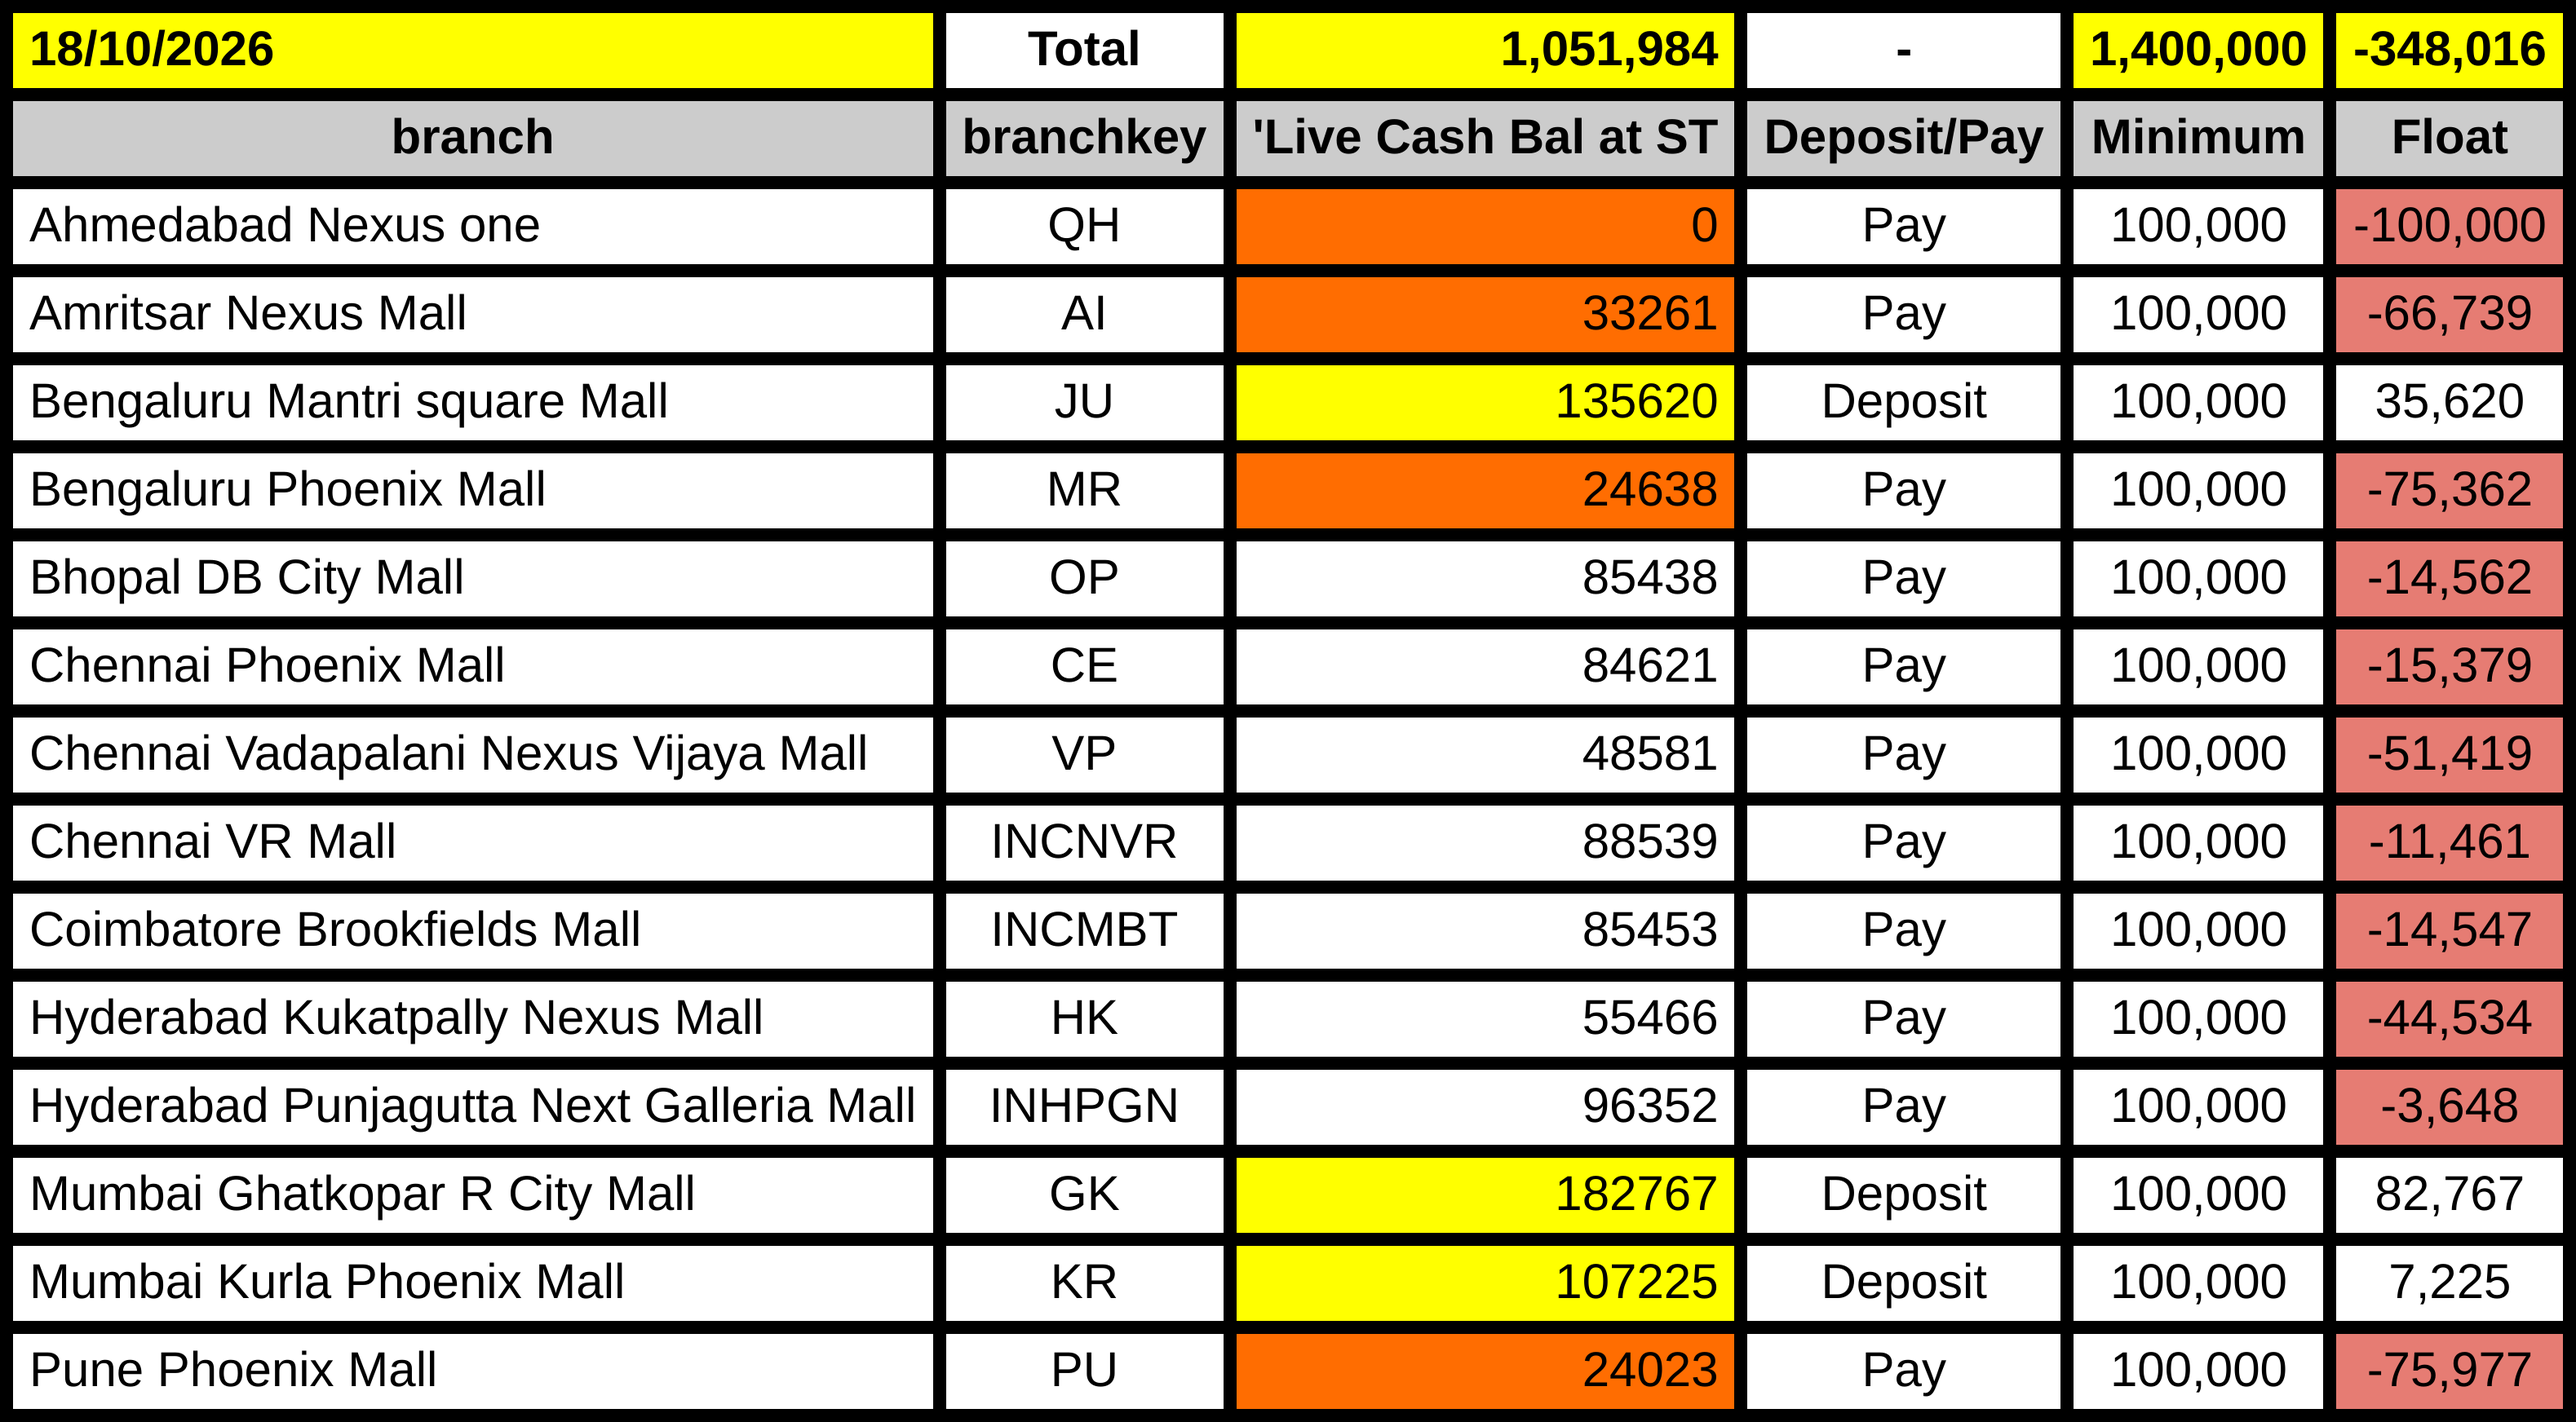
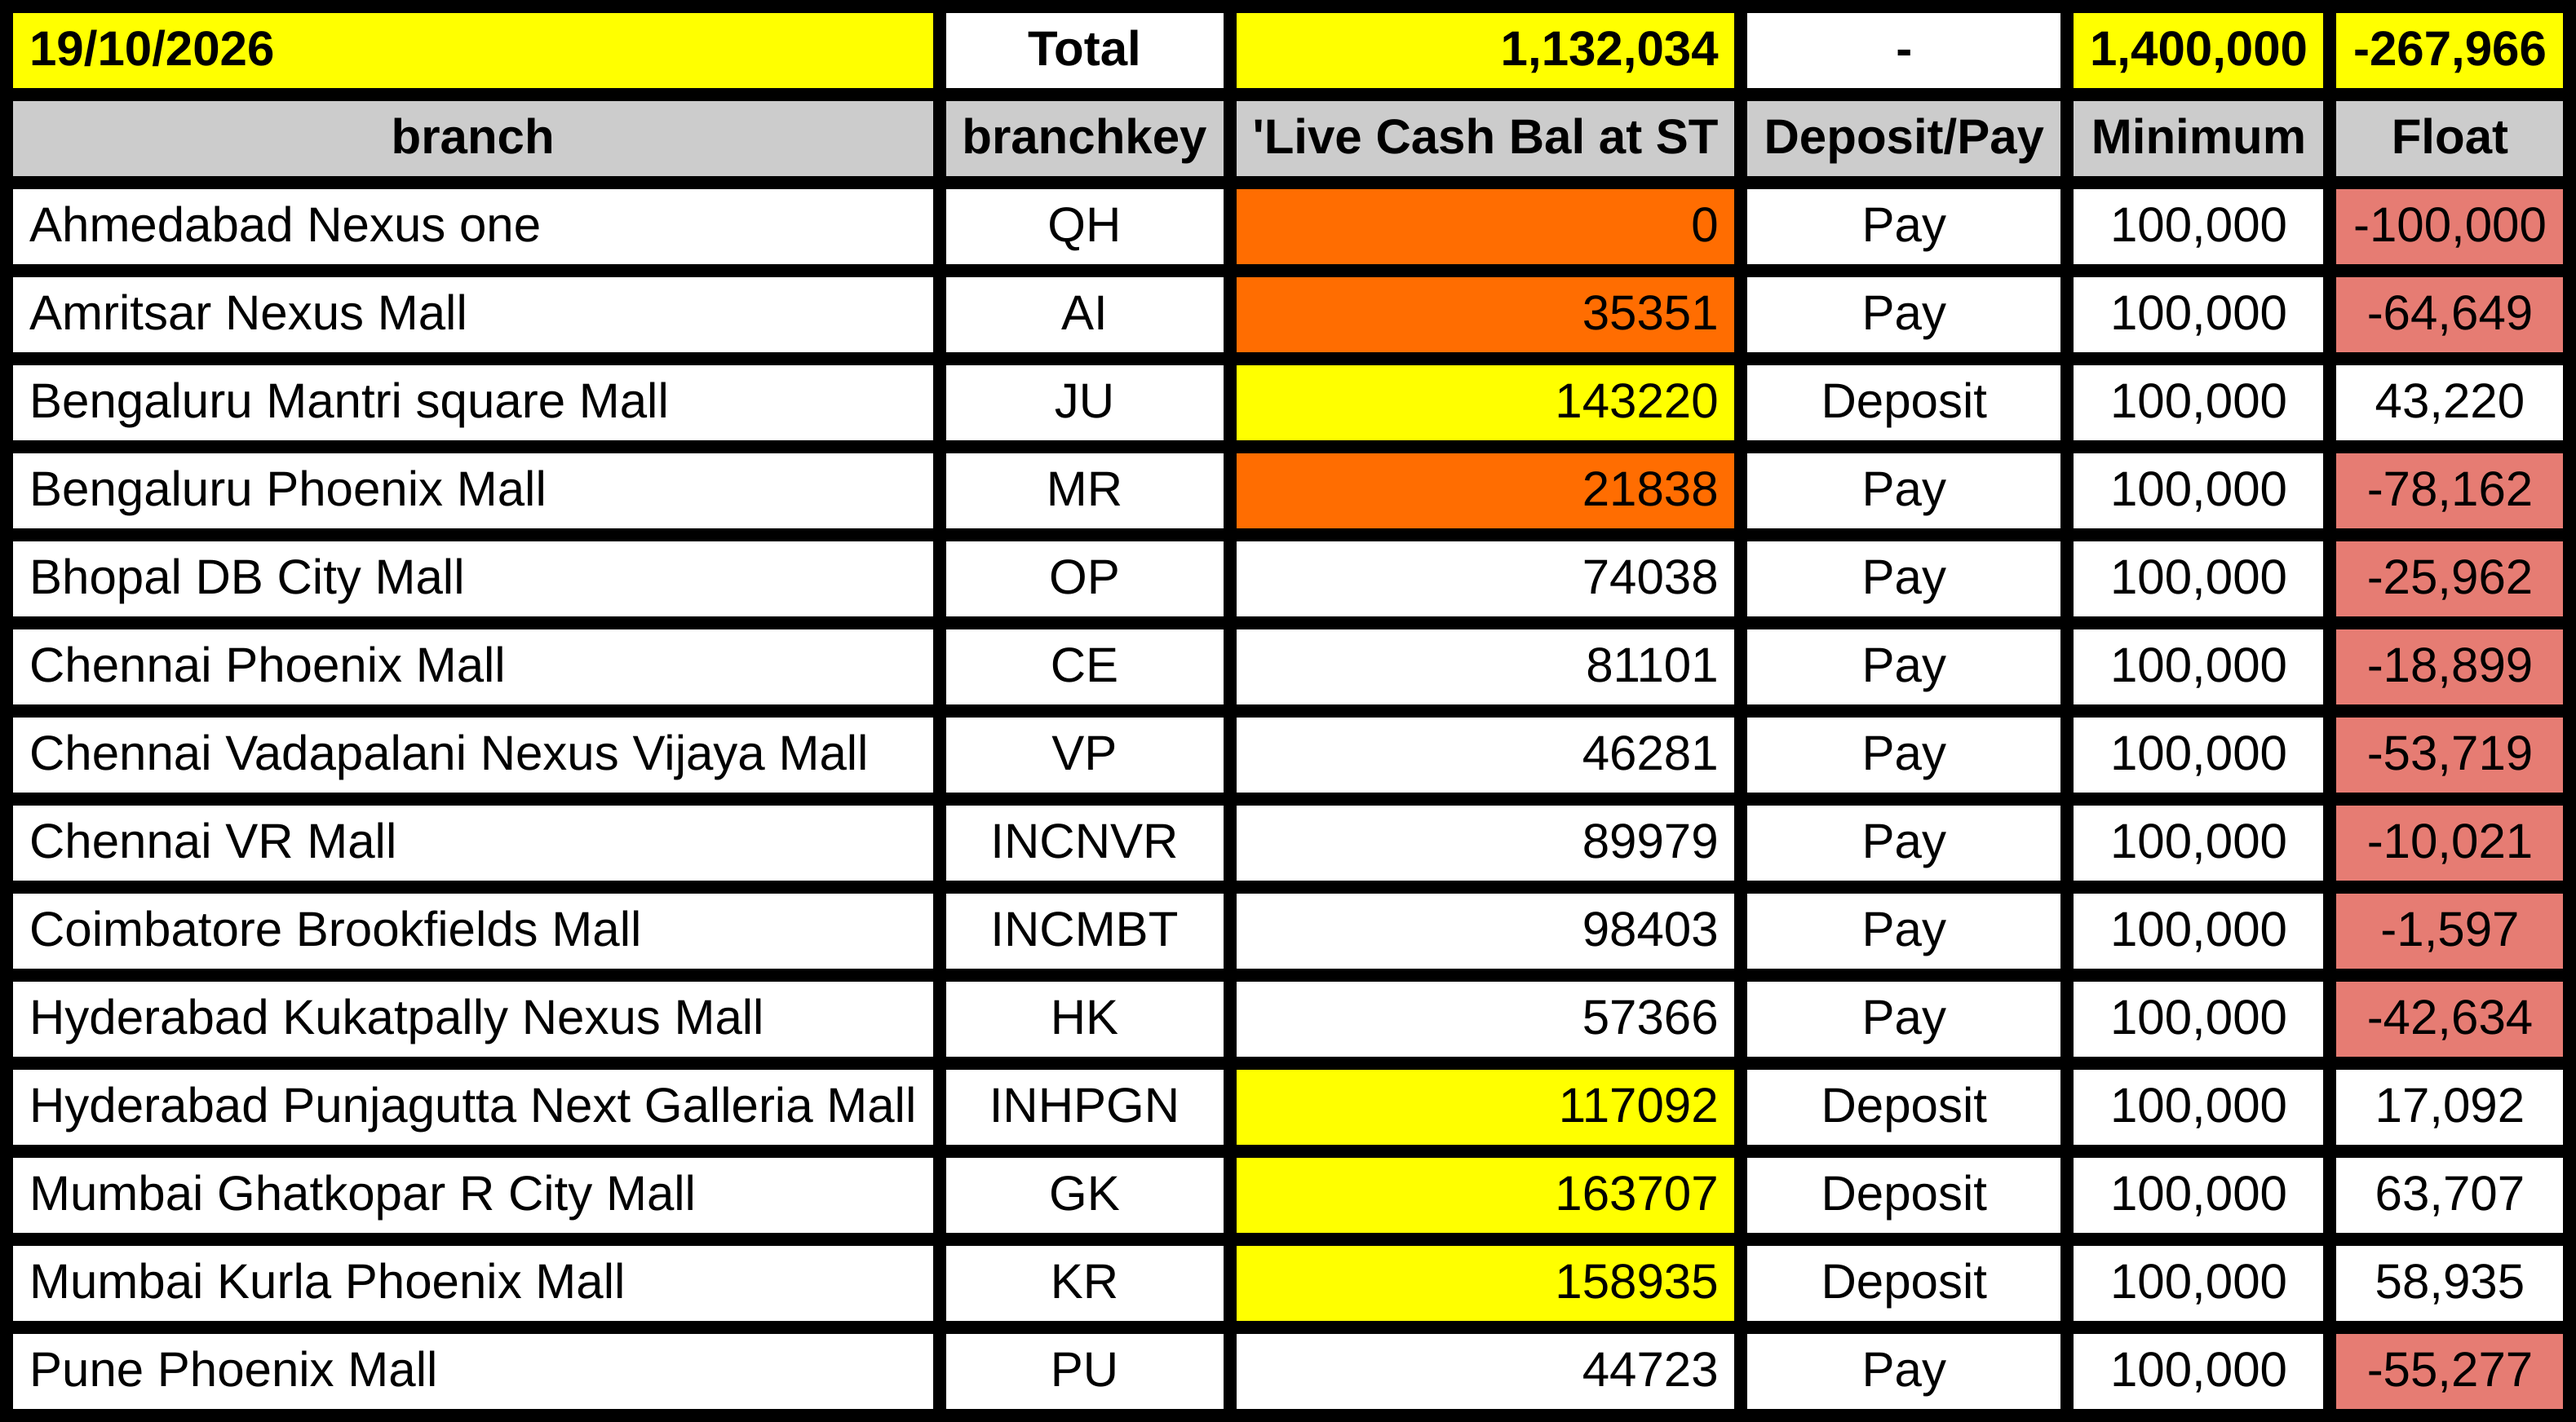
deploy: 1eb6ce62876c9d41067b4594acfaffc291ee4c8b

diff --git a/table.html b/table.html
@@ -21,7 +21,7 @@
           font-family: Arial, sans-serif;
           font-size: 30px;
           white-space: nowrap;
-        ">18/10/2026</td>
+        ">19/10/2026</td>
       
         <td style="
           background-color: #ffffff;
@@ -49,7 +49,7 @@
           font-family: Arial, sans-serif;
           font-size: 30px;
           white-space: nowrap;
-        ">1,051,984</td>
+        ">1,132,034</td>
       
         <td style="
           background-color: #ffffff;
@@ -91,7 +91,7 @@
           font-family: Arial, sans-serif;
           font-size: 30px;
           white-space: nowrap;
-        ">-348,016</td>
+        ">-267,966</td>
       </tr><tr>
         <td style="
           background-color: #cccccc;
@@ -301,7 +301,7 @@
           font-family: Arial, sans-serif;
           font-size: 30px;
           white-space: nowrap;
-        ">33261</td>
+        ">35351</td>
       
         <td style="
           background-color: #ffffff;
@@ -343,7 +343,7 @@
           font-family: Arial, sans-serif;
           font-size: 30px;
           white-space: nowrap;
-        ">-66,739</td>
+        ">-64,649</td>
       </tr><tr>
         <td style="
           background-color: #ffffff;
@@ -385,7 +385,7 @@
           font-family: Arial, sans-serif;
           font-size: 30px;
           white-space: nowrap;
-        ">135620</td>
+        ">143220</td>
       
         <td style="
           background-color: #ffffff;
@@ -427,7 +427,7 @@
           font-family: Arial, sans-serif;
           font-size: 30px;
           white-space: nowrap;
-        ">35,620</td>
+        ">43,220</td>
       </tr><tr>
         <td style="
           background-color: #ffffff;
@@ -469,7 +469,7 @@
           font-family: Arial, sans-serif;
           font-size: 30px;
           white-space: nowrap;
-        ">24638</td>
+        ">21838</td>
       
         <td style="
           background-color: #ffffff;
@@ -511,7 +511,7 @@
           font-family: Arial, sans-serif;
           font-size: 30px;
           white-space: nowrap;
-        ">-75,362</td>
+        ">-78,162</td>
       </tr><tr>
         <td style="
           background-color: #ffffff;
@@ -553,7 +553,7 @@
           font-family: Arial, sans-serif;
           font-size: 30px;
           white-space: nowrap;
-        ">85438</td>
+        ">74038</td>
       
         <td style="
           background-color: #ffffff;
@@ -595,7 +595,7 @@
           font-family: Arial, sans-serif;
           font-size: 30px;
           white-space: nowrap;
-        ">-14,562</td>
+        ">-25,962</td>
       </tr><tr>
         <td style="
           background-color: #ffffff;
@@ -637,7 +637,7 @@
           font-family: Arial, sans-serif;
           font-size: 30px;
           white-space: nowrap;
-        ">84621</td>
+        ">81101</td>
       
         <td style="
           background-color: #ffffff;
@@ -679,7 +679,7 @@
           font-family: Arial, sans-serif;
           font-size: 30px;
           white-space: nowrap;
-        ">-15,379</td>
+        ">-18,899</td>
       </tr><tr>
         <td style="
           background-color: #ffffff;
@@ -721,7 +721,7 @@
           font-family: Arial, sans-serif;
           font-size: 30px;
           white-space: nowrap;
-        ">48581</td>
+        ">46281</td>
       
         <td style="
           background-color: #ffffff;
@@ -763,7 +763,7 @@
           font-family: Arial, sans-serif;
           font-size: 30px;
           white-space: nowrap;
-        ">-51,419</td>
+        ">-53,719</td>
       </tr><tr>
         <td style="
           background-color: #ffffff;
@@ -805,7 +805,7 @@
           font-family: Arial, sans-serif;
           font-size: 30px;
           white-space: nowrap;
-        ">88539</td>
+        ">89979</td>
       
         <td style="
           background-color: #ffffff;
@@ -847,7 +847,7 @@
           font-family: Arial, sans-serif;
           font-size: 30px;
           white-space: nowrap;
-        ">-11,461</td>
+        ">-10,021</td>
       </tr><tr>
         <td style="
           background-color: #ffffff;
@@ -889,7 +889,7 @@
           font-family: Arial, sans-serif;
           font-size: 30px;
           white-space: nowrap;
-        ">85453</td>
+        ">98403</td>
       
         <td style="
           background-color: #ffffff;
@@ -931,7 +931,7 @@
           font-family: Arial, sans-serif;
           font-size: 30px;
           white-space: nowrap;
-        ">-14,547</td>
+        ">-1,597</td>
       </tr><tr>
         <td style="
           background-color: #ffffff;
@@ -973,7 +973,7 @@
           font-family: Arial, sans-serif;
           font-size: 30px;
           white-space: nowrap;
-        ">55466</td>
+        ">57366</td>
       
         <td style="
           background-color: #ffffff;
@@ -1015,7 +1015,7 @@
           font-family: Arial, sans-serif;
           font-size: 30px;
           white-space: nowrap;
-        ">-44,534</td>
+        ">-42,634</td>
       </tr><tr>
         <td style="
           background-color: #ffffff;
@@ -1046,7 +1046,7 @@
         ">INHPGN</td>
       
         <td style="
-          background-color: #ffffff;
+          background-color: #ffff00;
           color: #000000;
           font-weight: normal;
           font-style: normal;
@@ -1057,7 +1057,7 @@
           font-family: Arial, sans-serif;
           font-size: 30px;
           white-space: nowrap;
-        ">96352</td>
+        ">117092</td>
       
         <td style="
           background-color: #ffffff;
@@ -1071,7 +1071,7 @@
           font-family: Arial, sans-serif;
           font-size: 30px;
           white-space: nowrap;
-        ">Pay</td>
+        ">Deposit</td>
       
         <td style="
           background-color: #ffffff;
@@ -1088,7 +1088,7 @@
         ">100,000</td>
       
         <td style="
-          background-color: #e67c73;
+          background-color: #ffffff;
           color: #000000;
           font-weight: normal;
           font-style: normal;
@@ -1099,7 +1099,7 @@
           font-family: Arial, sans-serif;
           font-size: 30px;
           white-space: nowrap;
-        ">-3,648</td>
+        ">17,092</td>
       </tr><tr>
         <td style="
           background-color: #ffffff;
@@ -1141,7 +1141,7 @@
           font-family: Arial, sans-serif;
           font-size: 30px;
           white-space: nowrap;
-        ">182767</td>
+        ">163707</td>
       
         <td style="
           background-color: #ffffff;
@@ -1183,7 +1183,7 @@
           font-family: Arial, sans-serif;
           font-size: 30px;
           white-space: nowrap;
-        ">82,767</td>
+        ">63,707</td>
       </tr><tr>
         <td style="
           background-color: #ffffff;
@@ -1225,7 +1225,7 @@
           font-family: Arial, sans-serif;
           font-size: 30px;
           white-space: nowrap;
-        ">107225</td>
+        ">158935</td>
       
         <td style="
           background-color: #ffffff;
@@ -1267,7 +1267,7 @@
           font-family: Arial, sans-serif;
           font-size: 30px;
           white-space: nowrap;
-        ">7,225</td>
+        ">58,935</td>
       </tr><tr>
         <td style="
           background-color: #ffffff;
@@ -1298,7 +1298,7 @@
         ">PU</td>
       
         <td style="
-          background-color: #ff6d01;
+          background-color: #ffffff;
           color: #000000;
           font-weight: normal;
           font-style: normal;
@@ -1309,7 +1309,7 @@
           font-family: Arial, sans-serif;
           font-size: 30px;
           white-space: nowrap;
-        ">24023</td>
+        ">44723</td>
       
         <td style="
           background-color: #ffffff;
@@ -1351,7 +1351,7 @@
           font-family: Arial, sans-serif;
           font-size: 30px;
           white-space: nowrap;
-        ">-75,977</td>
+        ">-55,277</td>
       </tr>
   </table>
 </body>
